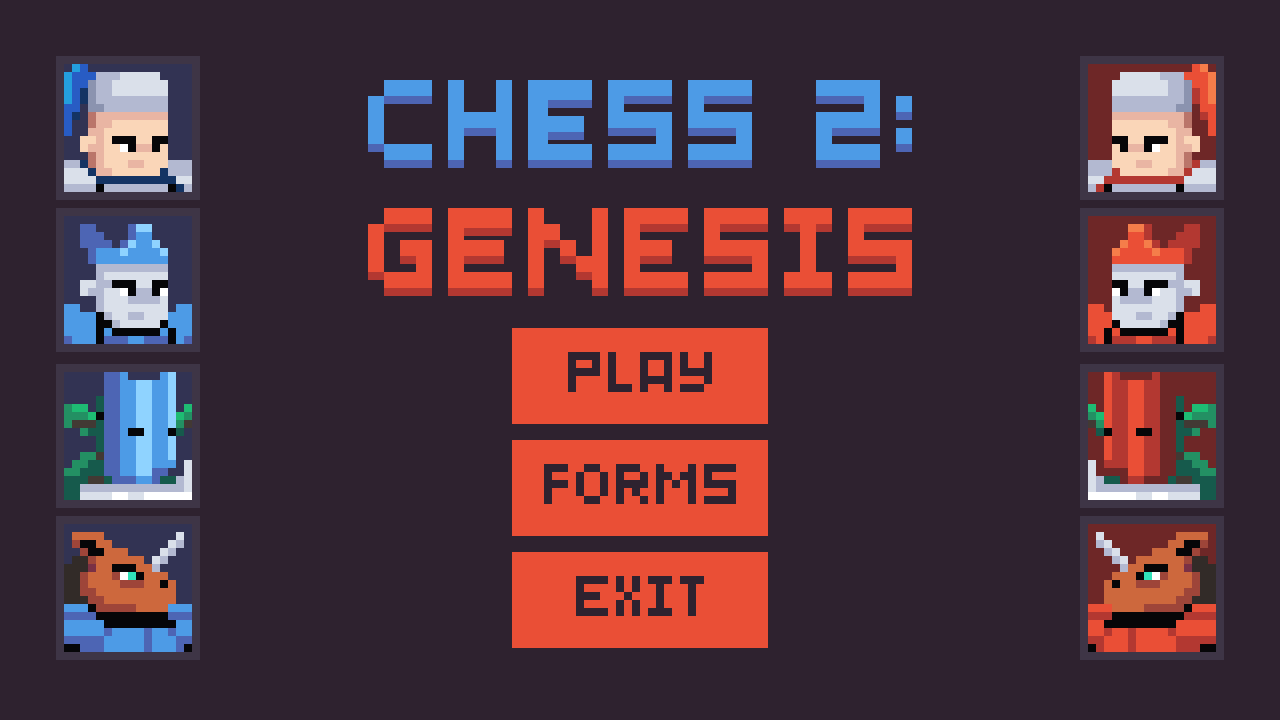
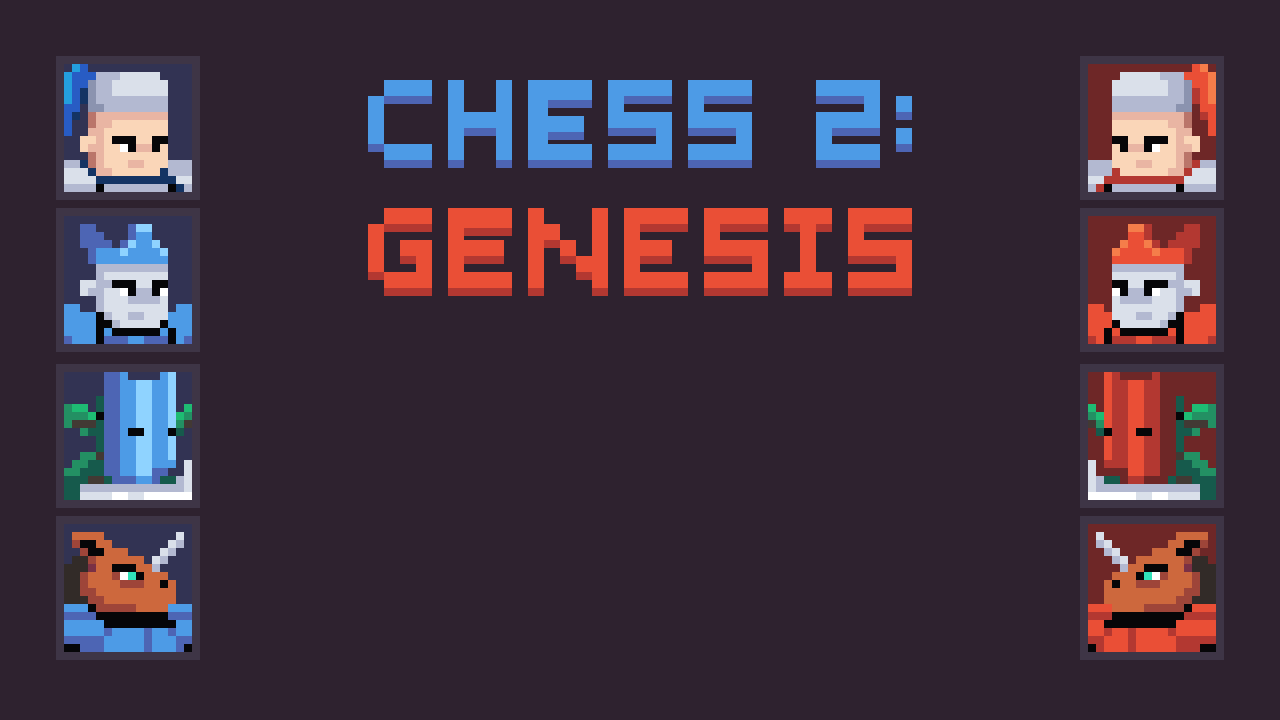
Botones de menú + fixes

Changed region(s): [[0.375, 0.4583, 0.625, 0.9167]]

diff --git a/src/content.cpp b/src/content.cpp
@@ -18,16 +18,16 @@ void Assets::load(vector<StaticSprite> *statics, vector<GuiButton> *buttons, vec
 
     font = SpriteFont("../data/fonts/dogica.ttf", 32);
 
-    buttons->push_back(GuiButton(512, 328, 256, 96, // Play (menu)
-                                 "../data/img/helpButtonIdle.png", "../data/img/helpButtonPressed.png"));
-    buttons->push_back(GuiButton(512, 440, 256, 96, // Forms (menu)
-                                 "../data/img/exitButtonIdle.png", "../data/img/exitButtonPressed.png"));
-    buttons->push_back(GuiButton(512, 552, 256, 96, // Exit (menu)
-                                 "../data/img/exitButtonIdle.png", "../data/img/exitButtonPressed.png"));
+    buttons->push_back(GuiButton(512, 328, 256, 108, // Play (menu)
+                                 "../data/img/buttons/playMenuButtonIdle.png", "../data/img/buttons/playMenuButtonPressed.png"));
+    buttons->push_back(GuiButton(512, 444, 256, 108, // Forms (menu)
+                                 "../data/img/buttons/formsMenuButtonIdle.png", "../data/img/buttons/formsMenuButtonPressed.png"));
+    buttons->push_back(GuiButton(512, 560, 256, 108, // Exit (menu)
+                                 "../data/img/buttons/exitMenuButtonIdle.png", "../data/img/buttons/exitMenuButtonPressed.png"));
     buttons->push_back(GuiButton(16, 16, 224, 64, // Help (game)
-                                 "../data/img/helpButtonIdle.png", "../data/img/helpButtonPressed.png"));
+                                 "../data/img/buttons/helpButtonIdle.png", "../data/img/buttons/helpButtonPressed.png"));
     buttons->push_back(GuiButton(16, 96, 224, 64, // Exit (game)
-                                 "../data/img/exitButtonIdle.png", "../data/img/exitButtonPressed.png"));
+                                 "../data/img/buttons/exitButtonIdle.png", "../data/img/buttons/exitButtonPressed.png"));
 
     statics->push_back(StaticSprite(0, 0, "../data/img/background.png", true));
     statics->push_back(StaticSprite(320, 64, "../data/img/helpmenu.png", false));
@@ -129,13 +129,12 @@ void loadPieces(vector<PieceSprite> *pieces, int data[B_ROWS][B_COLUMNS])
         for (int j = 0; j < B_COLUMNS; j++) {
             int dataCode = data[i][j];
             if (dataCode >= 1 && dataCode <= 24) pieces->push_back(PieceSprite(
-                    (j + 6.5) * 64, // Wtf
-                    (i + 1) * 64,
+                    j * 64 + 416, // Wtf
+                    i * 64 + 64,
                     dataCode,
                     getSpritePath(dataCode)));
         }
     }
-
 }
 
 String getSpritePath(int id)

diff --git a/src/gui/guiButton.cpp b/src/gui/guiButton.cpp
@@ -23,7 +23,7 @@ void GuiButton::update() {
 }
 
 void GuiButton::draw(Batch *batch) {
-    if (!this->touched) batch->tex(this->pressedTex, Vec2(this->getX(), this->getY()), Color::white);
+    if (this->touched) batch->tex(this->pressedTex, Vec2(this->getX(), this->getY()), Color::white);
     else batch->tex(this->idleTex, Vec2(this->getX(), this->getY()), Color::white);
 }
 

diff --git a/src/content.h b/src/content.h
@@ -3,7 +3,6 @@
 
 #include <blah.h>
 #include <list>
-#include <map>
 #include "gui/staticSprite.h"
 #include "gui/guiButton.h"
 #include "gui/pieceSprite.h"
